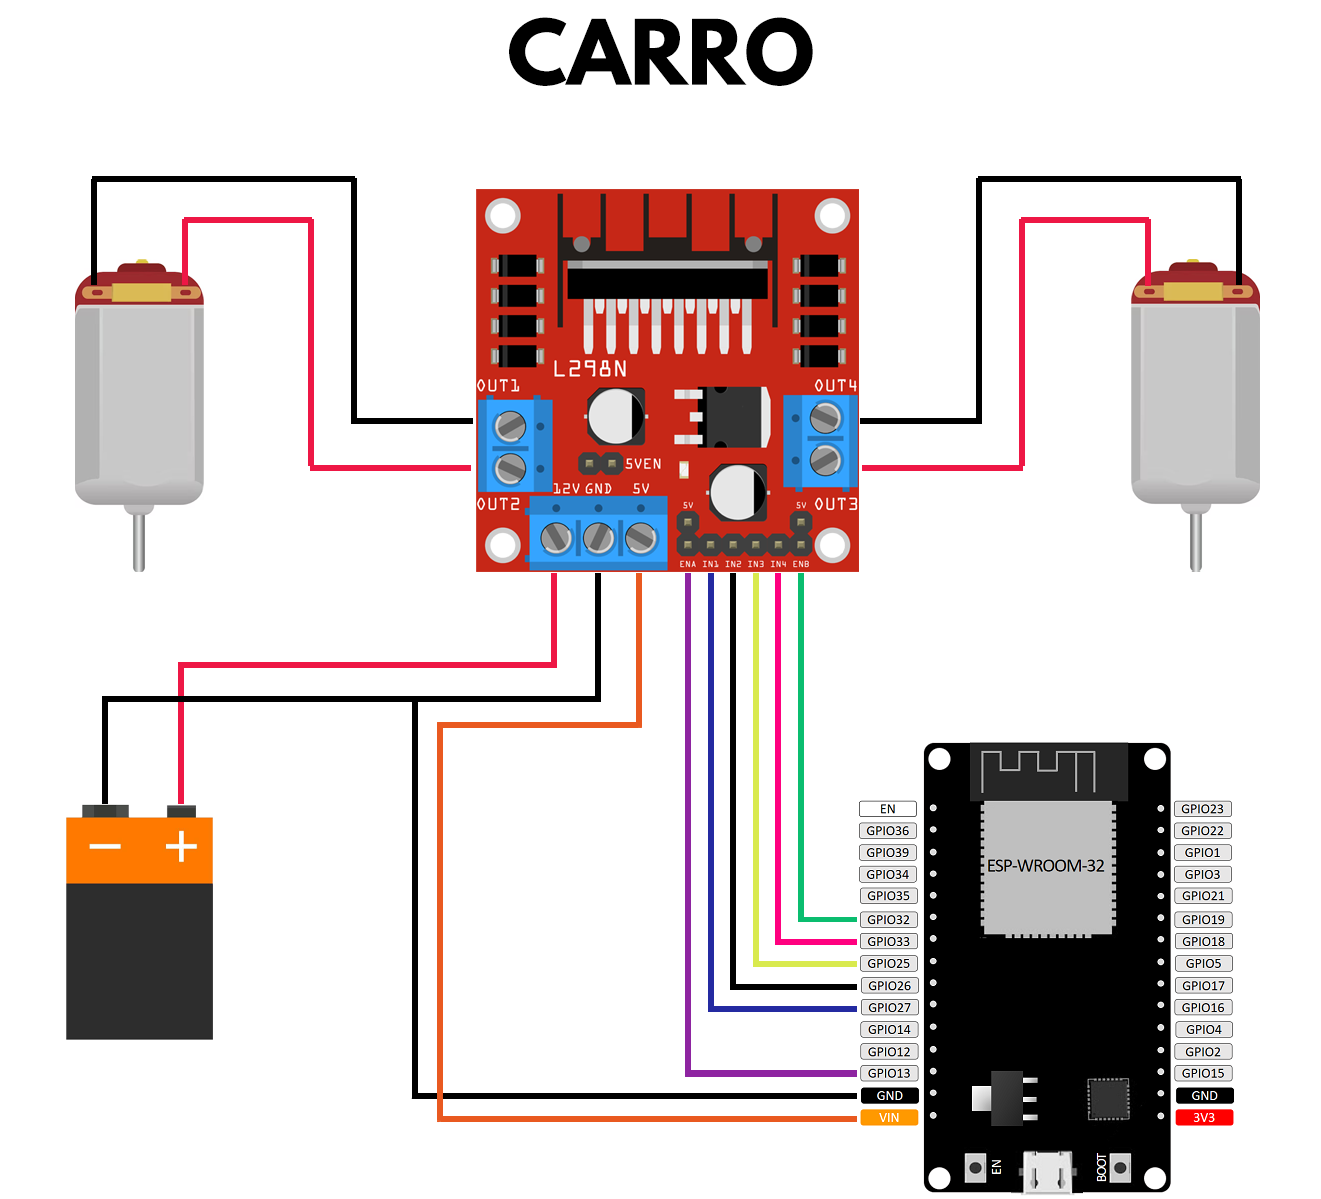
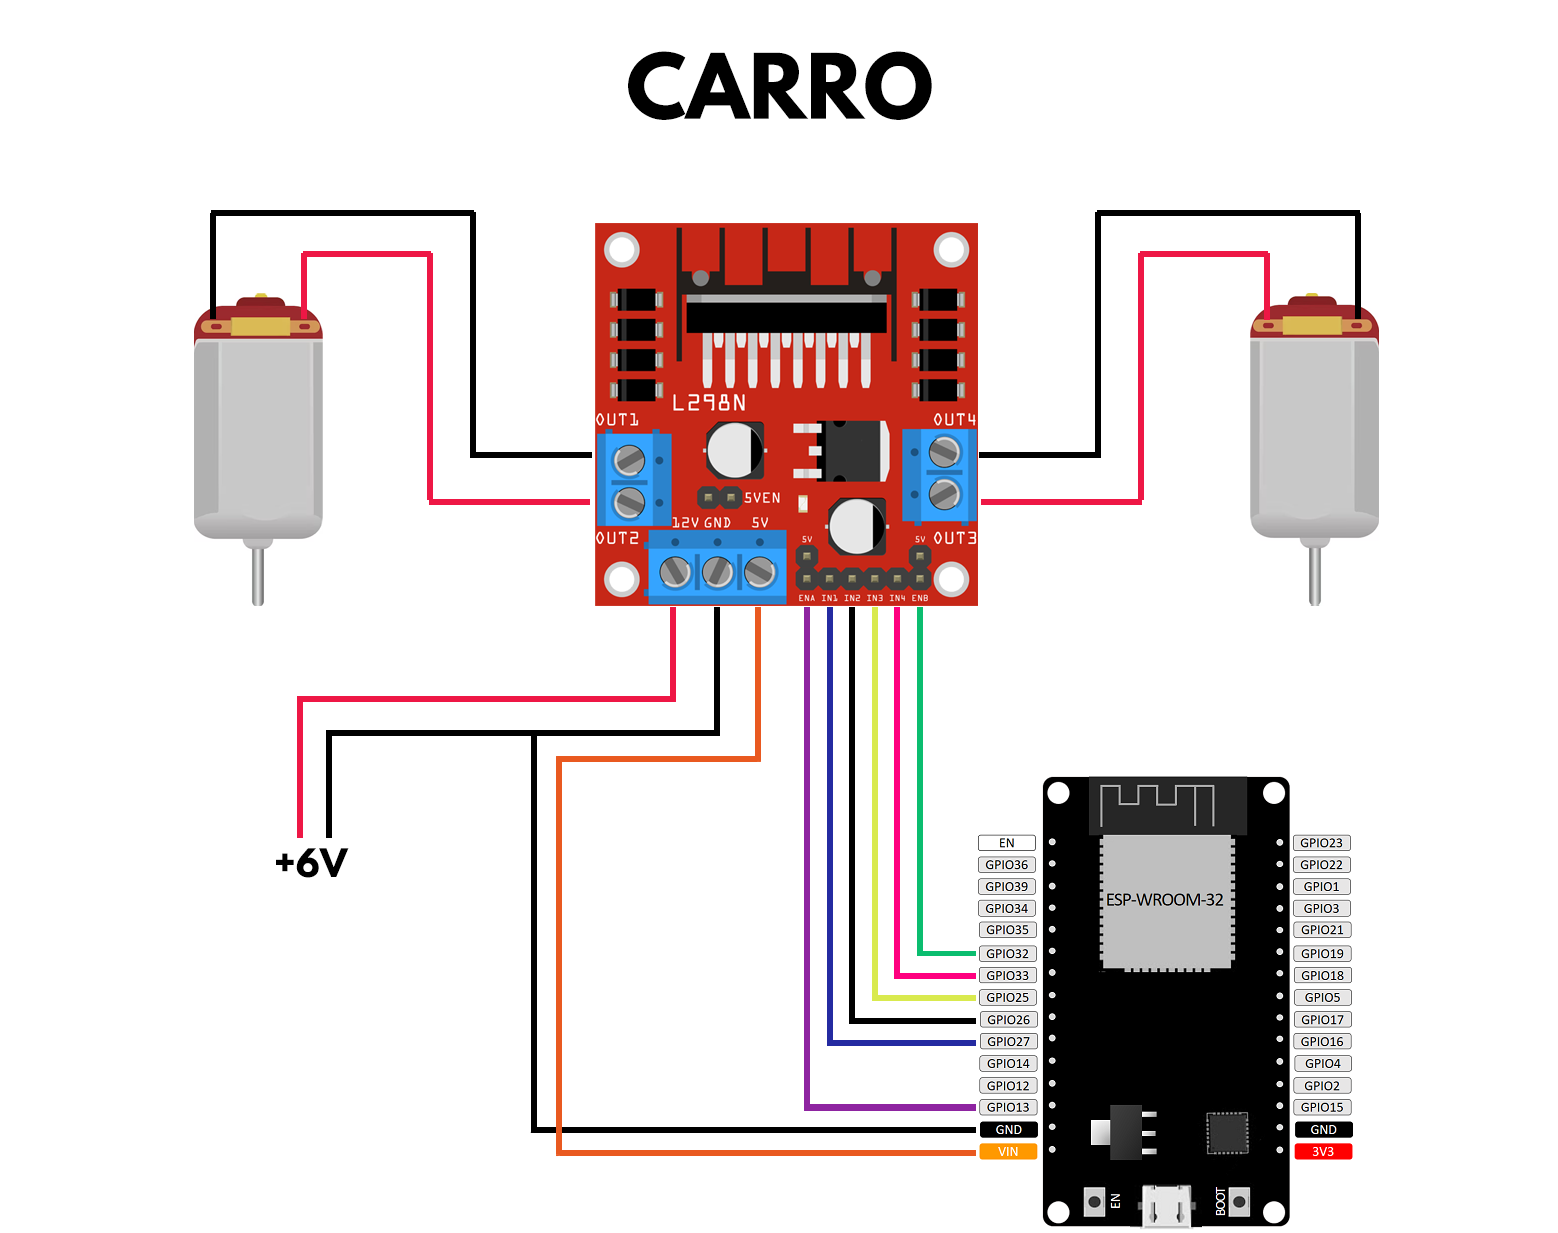
documentacao atualizada

Changed region(s): [[0.031, 0.1234, 0.9621, 1.0], [0.3724, 0.0, 0.6207, 0.0926]]

diff --git a/README.md b/README.md
@@ -5,19 +5,24 @@
 
 ## Lista de partes
 
-- 2x ESP32-WROOM-32D
 - 1x Kit Chassi 2WD
-- 2x Módulo Joystick Analógico de 3 Eixos
+- 2x ESP32-WROOM-32D
 - 1x Módulo Driver Ponte H - L298N
-- 2x Power Banks (ou módulos de baterias)
+- 2x Power Banks (ou módulos de baterias) para o carro e controle
+- 2x Módulo Joystick Analógico de 3 Eixos
 - 2x Chave Táteis (push buttons)
 - 1x Display OLED SSD1306 0.96″ 128×64
 
 ## Diagramas
+
+<p align="center">
+    <img src="Imagens/CARRO.png" alt="drawing" width="550"/>
+</p>
+
 <p align="center">
     <img src="Imagens/CONTROLE.png" alt="drawing" width="550"/>
 </p>
 
 <p align="center">
-    <img src="Imagens/CARRO.png" alt="drawing" width="550"/>
+    <img src="Imagens/JOYSTICK.png" alt="drawing" width="550"/>
 </p>
